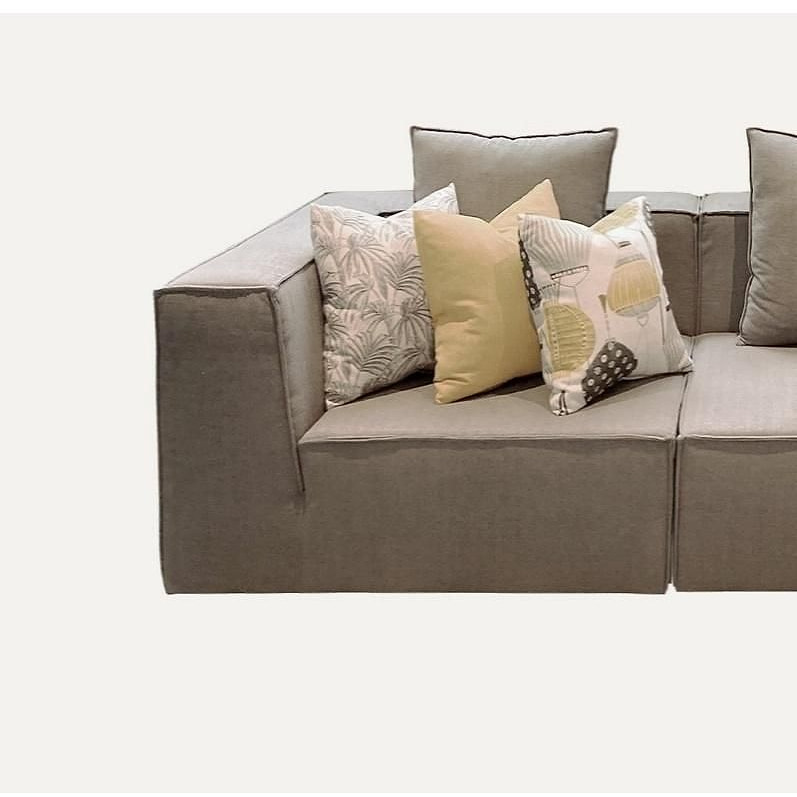
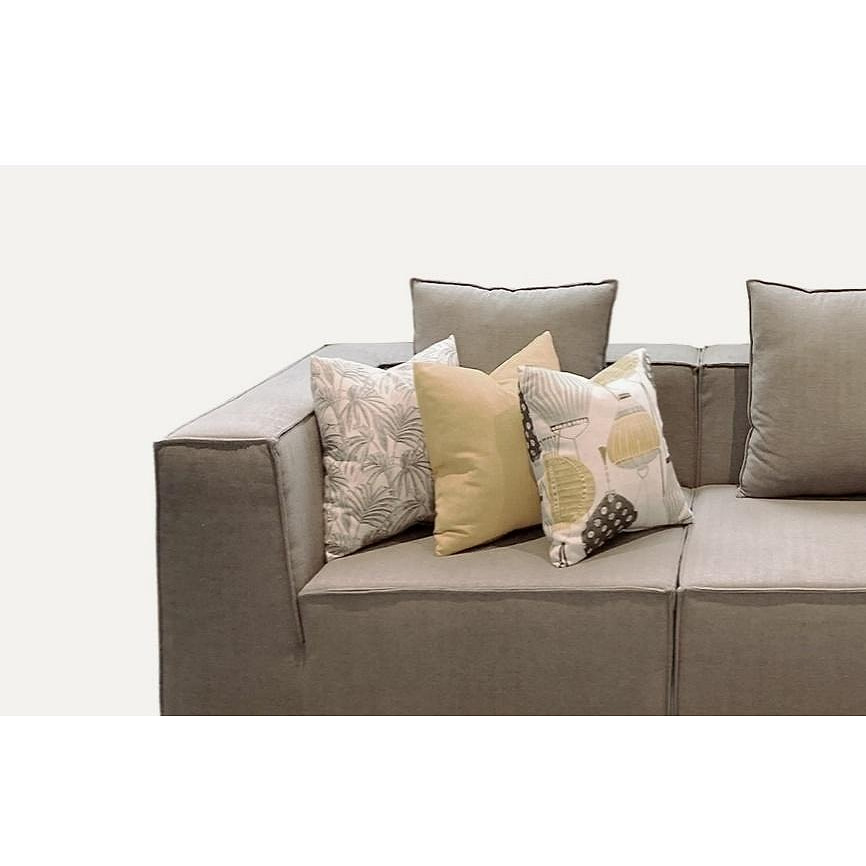
Split the merged sofa entries into one product each
The sofa pages stack their products with no white gutter, so the gutter-based
segmenter swallowed a whole column into a single cell — five sofas were being
shown under one name. Those pages are now cut from the captions instead: each
model name marks the bottom of its own picture, and the page is split into its
two columns by the name position.

Sofas go from 11 merged entries to 35 real ones, each carrying the three
lengths the catalogue lists (2PZ / 3PZ / XL) with their own reference and
dimensions, shown as a table when a piece is opened.

diff --git a/src/pages/Catalogue.jsx b/src/pages/Catalogue.jsx
@@ -109,6 +109,9 @@ export default function Catalogue() {
                       {p.ref && <span>REF. {p.ref}</span>}
                       {p.ref && p.dim && <span className="mx-2">·</span>}
                       {p.dim && <span>{p.dim} cm</span>}
+                      {p.variants?.length > 1 && (
+                        <span className="ms-2 text-olive">+{p.variants.length - 1}</span>
+                      )}
                     </p>
                   </button>
                 </Reveal>
@@ -133,9 +136,24 @@ export default function Catalogue() {
               <div className="flex items-start justify-between gap-4 p-5 border-b hairline">
                 <div>
                   <h2 className="font-display text-xl">{zoom.name}</h2>
-                  <p className="text-xs uppercase tracking-[0.16em] text-stone mt-1">
-                    {zoom.ref && `REF. ${zoom.ref}`}{zoom.ref && zoom.dim && ' · '}{zoom.dim && `${zoom.dim} cm`}
-                  </p>
+                  {/* Sofas are sold in three lengths, each with its own reference */}
+                  {zoom.variants?.length ? (
+                    <table className="mt-3 text-[13px]">
+                      <tbody>
+                        {zoom.variants.map((v) => (
+                          <tr key={v.ref}>
+                            <td className="pe-4 py-0.5 text-charcoal/80">{v.size}</td>
+                            <td className="pe-4 py-0.5 text-stone">REF. {v.ref}</td>
+                            <td className="py-0.5 text-stone">{v.dim} cm</td>
+                          </tr>
+                        ))}
+                      </tbody>
+                    </table>
+                  ) : (
+                    <p className="text-xs uppercase tracking-[0.16em] text-stone mt-1">
+                      {zoom.ref && `REF. ${zoom.ref}`}{zoom.ref && zoom.dim && ' · '}{zoom.dim && `${zoom.dim} cm`}
+                    </p>
+                  )}
                 </div>
                 <button onClick={() => setZoom(null)} aria-label={t.common.close} className="text-stone hover:text-charcoal text-2xl leading-none cursor-pointer">×</button>
               </div>
